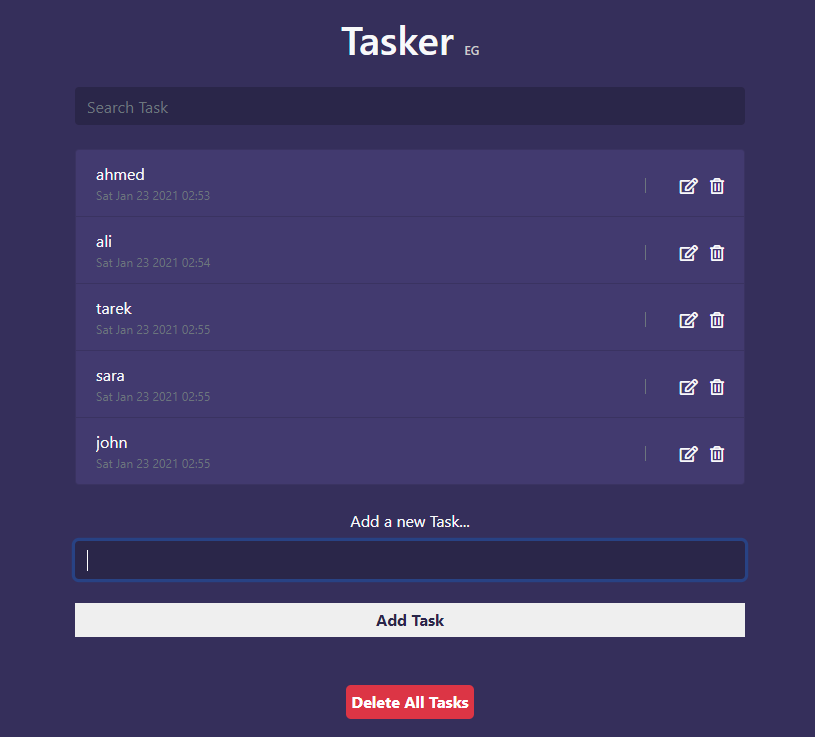
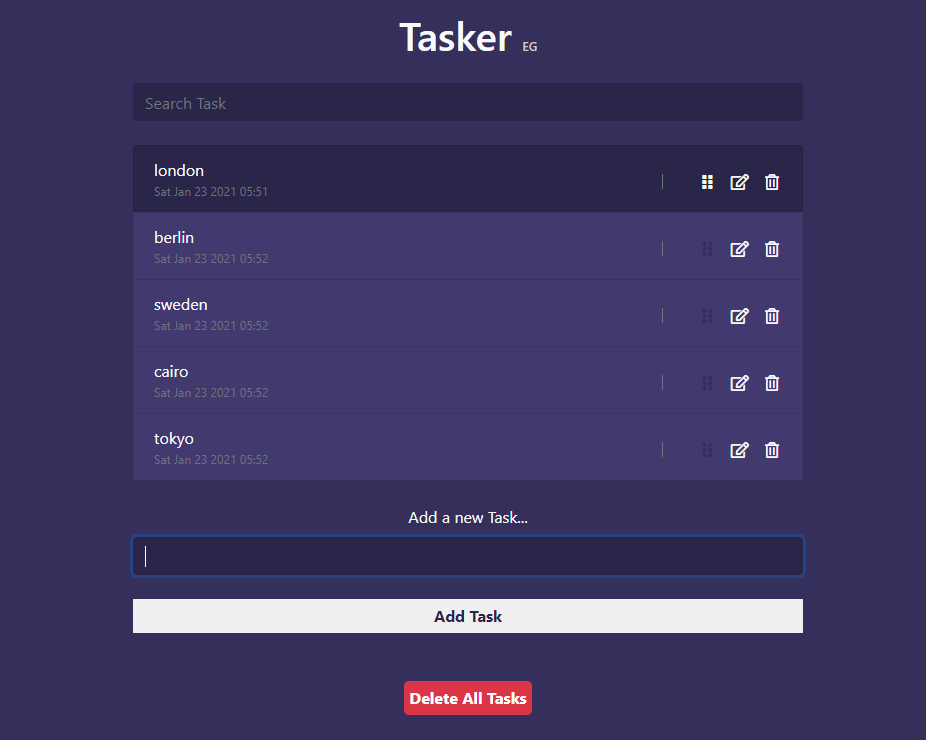
Trigger Version 2.2
* Main Features:

1- Add a drag icon that user can uses it to drag tasks and sort his list instead of dragging the task element itself to sort the list.

* Some Enhancements:

1- Fix some bugs >> prevent the user from sorting and dragging his tasks when he is deleting a task.

diff --git a/script.js b/script.js
@@ -18,13 +18,14 @@ const generateTemplate = () => {
     let task  = tasks[i];
     let date  = tasksDates[i];
     html +=
-    `<li class="list-group-item align-items-center" data-index="${i}">
+    `<li class="list-group-item align-items-center task" data-index="${i}">
       <div class="d-flex justify-content-between task-part">
         <span class="task-name">${task}</span>
-        <input class="edit-task-name filter-from-drag" type="text"/>
-        <span class="options filter-from-drag">
-          <i class="far fa-edit edit mr-2"></i>
-          <i class="far fa-trash-alt delete"></i>
+        <input class="edit-task-name" type="text"/>
+        <span class="options">
+          <i class="fas fa-grip-vertical drag mr-2 fa-fw"></i>
+          <i class="far fa-edit edit mr-2 filter-from-drag fa-fw"></i>
+          <i class="far fa-trash-alt delete filter-from-drag fa-fw"></i>
         </span>
       </div>
       <div class="date text-muted" style="font-size: 12px"><span class="date-text">${date}</span><span class="ml-2 if-edit-task"><span class="edit-text filter-from-drag"></span><span class="edit-date bg-light rounded"></span></span></div>
@@ -82,7 +83,6 @@ list.addEventListener('click', e => {
     deleteBox.appendChild(deleteBtn);
 
     deleteBox.classList.add("delete-box");
-    deleteBox.classList.add("filter-from-drag");
     deleteBtn.classList.add("delete-btn");
     cancelBtn.classList.add("cancel-btn");
     deleteField.classList.add("delete-field");
@@ -91,6 +91,9 @@ list.addEventListener('click', e => {
     deletedTask.querySelector(".task-part").classList.toggle("justify-content-between");
     deletedTask.querySelector(".task-part").classList.toggle("d-none");
     deletedTask.querySelector(".date").classList.toggle("d-none");
+    list.querySelectorAll(".task").forEach(task => {
+      task.classList.add("filter-from-drag");
+    });
   }
 });
 
@@ -120,6 +123,9 @@ list.addEventListener("click", e => {
     //console.log(tasksDates);
     generateTemplate();
     saveDataInStorage();
+    list.querySelectorAll(".task").forEach(task => {
+      task.classList.remove("filter-from-drag");
+    });
   }
 });
 
@@ -133,6 +139,9 @@ list.addEventListener("click", e => {
     canceledTask.querySelector(".task-part").classList.toggle("justify-content-between");
     canceledTask.querySelector(".task-part").classList.toggle("d-none");
     canceledTask.querySelector(".date").classList.toggle("d-none");
+    list.querySelectorAll(".task").forEach(task => {
+      task.classList.remove("filter-from-drag");
+    });
   }
 });
 
@@ -231,6 +240,7 @@ new Sortable(sortablelist, {
   animation: 110,
   ghostClass: 'sortable-ghost',
   filter: '.filter-from-drag',
+  handle: '.drag',
   onUpdate: function() {
     //console.log(tasks);
     //console.log(tasksDates);

diff --git a/style.css b/style.css
@@ -54,7 +54,6 @@ form input[type=submit]:hover {
 
 .todos li {
     background: #423a6f;
-    cursor: pointer;
     transition: .4s;
 }
 
@@ -63,50 +62,89 @@ form input[type=submit]:hover {
 }
 
 .task-name, .edit-task-name {
-    width: 85%;
+    width: 79%;
     overflow: auto;
     background-color: transparent;
+    cursor: initial;
+    user-select: initial;
 }
 
 @media (max-width: 315px) {
     .task-name, .edit-task-name {
-        width: 60%!important;
+        width: 55%!important;
+    }
+    .options:before {
+        left: -10px!important
     }
 }
 
 @media (min-width: 316px) and (max-width: 355px) {
     .task-name, .edit-task-name {
-        width: 65%!important;
+        width: 58%!important;
+    }
+
+    .options:before {
+        left: -10px!important
     }
 }
 
 @media (min-width: 356px) and (max-width: 400px) {
     .task-name, .edit-task-name {
-        width: 68%;
+        width: 62%;
+    }
+
+    .options:before {
+        left: -10px!important
     }
 }
 
 @media (min-width: 401px) and (max-width: 450px) {
     .task-name, .edit-task-name {
-        width: 72%;
+        width: 67%;
+    }
+
+    .options:before {
+        left: -10px!important
     }
 }
 
 @media (min-width: 451px) and (max-width: 500px) {
     .task-name, .edit-task-name {
-        width: 77%;
+        width: 70%;
+    }
+
+    .options:before {
+        left: -10px!important
     }
 }
 
-@media (min-width: 501px) and (max-width: 600px) {
+@media (min-width: 501px) and (max-width: 550px) {
     .task-name, .edit-task-name {
-        width: 80%;
+        width: 72%;
+    }
+
+    .options:before {
+        left: -10px!important
+    }
+}
+
+@media (min-width: 551px) and (max-width: 600px) {
+    .task-name, .edit-task-name {
+        width: 77%;
+    }
+
+    .options:before {
+        left: -10px!important
     }
 }
 
 @media (min-width: 601px) and (max-width: 700px) {
     .task-name, .edit-task-name {
-        width: 83%;
+        width: 80%;
+    }
+
+    .options:before {
+        left: -10px!important
     }
 }
 
@@ -138,15 +176,21 @@ form input[type=submit]:hover {
     top: 65%;
 }
 
-.delete, .edit {
+.delete, .edit, .drag {
     cursor: pointer;
     position: relative;
     top: 50%;
     z-index: 9999;
 }
 
-.fa-check-circle {
-    right: 3px;
+.drag {
+    cursor: move;
+    color: #352f5b;
+    transition: .4s;
+}
+
+.todos li:hover .drag {
+    color: inherit;
 }
 
 .filtered {

diff --git a/index.html b/index.html
@@ -1,10 +1,10 @@
-<!--v.2.1-->
+<!--v.2.2-->
 <!-- ////////What's New ///////////
   <<<<Main Feature>>>>>>
-    1- Add delete box that popups to the user when clicking on the delete sign to be sure that he wants already to delete the required task. 
-    2- Add delete all tasks button that allows to the user to clear the list.
+    1- Add a drag icon that user can uses it to drag tasks and sort his list instead of dragging the task element itself to sort the list. 
     <<<<Some Enhancements>>>>>
-      1- Add button for add task under the add task field.
+      1- Fix some bugs in the code.
+          - prevent the user from sorting and dragging his tasks when he is deleting a task.
 -->
 <!DOCTYPE html>
 <html lang="en">
@@ -50,7 +50,7 @@
     <footer>
       <span>&#64; All Copyrights are reserved 2020</span>
       <p>Made by<a href="https://www.linkedin.com/in/mohamed-elhawary14/" class="ml-2"><span>Mohamed Elhawary</span></a></p>
-      <span class="version-num">Version 2.1</span>
+      <span class="version-num">Version 2.2</span>
     </footer>
     <script src="https://raw.githack.com/SortableJS/Sortable/master/Sortable.js"></script>
     <script src="script.js"></script>

diff --git a/README.md b/README.md
@@ -7,7 +7,7 @@ Tasker is a smart tasks list application that allows you to organize and add you
 
 ## Demo and How to Interact  
 
-![tasker-your-tasks-organizer-goog](https://user-images.githubusercontent.com/69651552/105563820-2d98dd80-5d28-11eb-97ae-478055e0c0ee.gif)
+![tasker-your-tasks-organizer-goog](https://user-images.githubusercontent.com/69651552/105568109-993a7500-5d3f-11eb-9ff9-c27be6371602.gif)
 
 ## Getting Started
 
@@ -352,6 +352,29 @@ cancelBtn.addEventListener("click", function() {
 });
 
 ```
+* [v2.2](https://github.com/Mohamed-Elhawary/tasker/tree/v2.2)  
+
+  - Add a drag icon that user can uses it to drag tasks and sort his list instead of dragging the task element itself to sort the list. 
+
+```
+// create and inject tasks into the UI
+const generateTemplate = () => {
+    html +=
+    `<li class="list-group-item align-items-center task" data-index="${i}">
+      <div class="d-flex justify-content-between task-part">
+        <span class="task-name">${task}</span>
+        <input class="edit-task-name" type="text"/>
+        <span class="options">
+          <i class="fas fa-grip-vertical drag mr-2 fa-fw"></i>
+          <i class="far fa-edit edit mr-2 filter-from-drag fa-fw"></i>
+          <i class="far fa-trash-alt delete filter-from-drag fa-fw"></i>
+        </span>
+      </div>
+      <div class="date text-muted" style="font-size: 12px"><span class="date-text">${date}</span><span class="ml-2 if-edit-task"><span class="edit-text filter-from-drag"></span><span class="edit-date bg-light rounded"></span></span></div>
+    </li>
+    `;
+};
+```
 
 ## Features
 
@@ -390,6 +413,10 @@ cancelBtn.addEventListener("click", function() {
 * Add delete all tasks button that allows to the user to clear the list.
 ![image](https://user-images.githubusercontent.com/69651552/105562755-2ff93880-5d24-11eb-9c44-1de0e7c32743.png)
 ![image](https://user-images.githubusercontent.com/69651552/105562767-3c7d9100-5d24-11eb-9471-26209d40c7c7.png)
+
+
+* Add a drag icon that user can uses it to drag tasks and sort his list instead of dragging the task element itself to sort the list. 
+![image](https://user-images.githubusercontent.com/69651552/105568039-2c26df80-5d3f-11eb-9cc8-e0a5addfcf66.png)
 
 
 ## Built With
